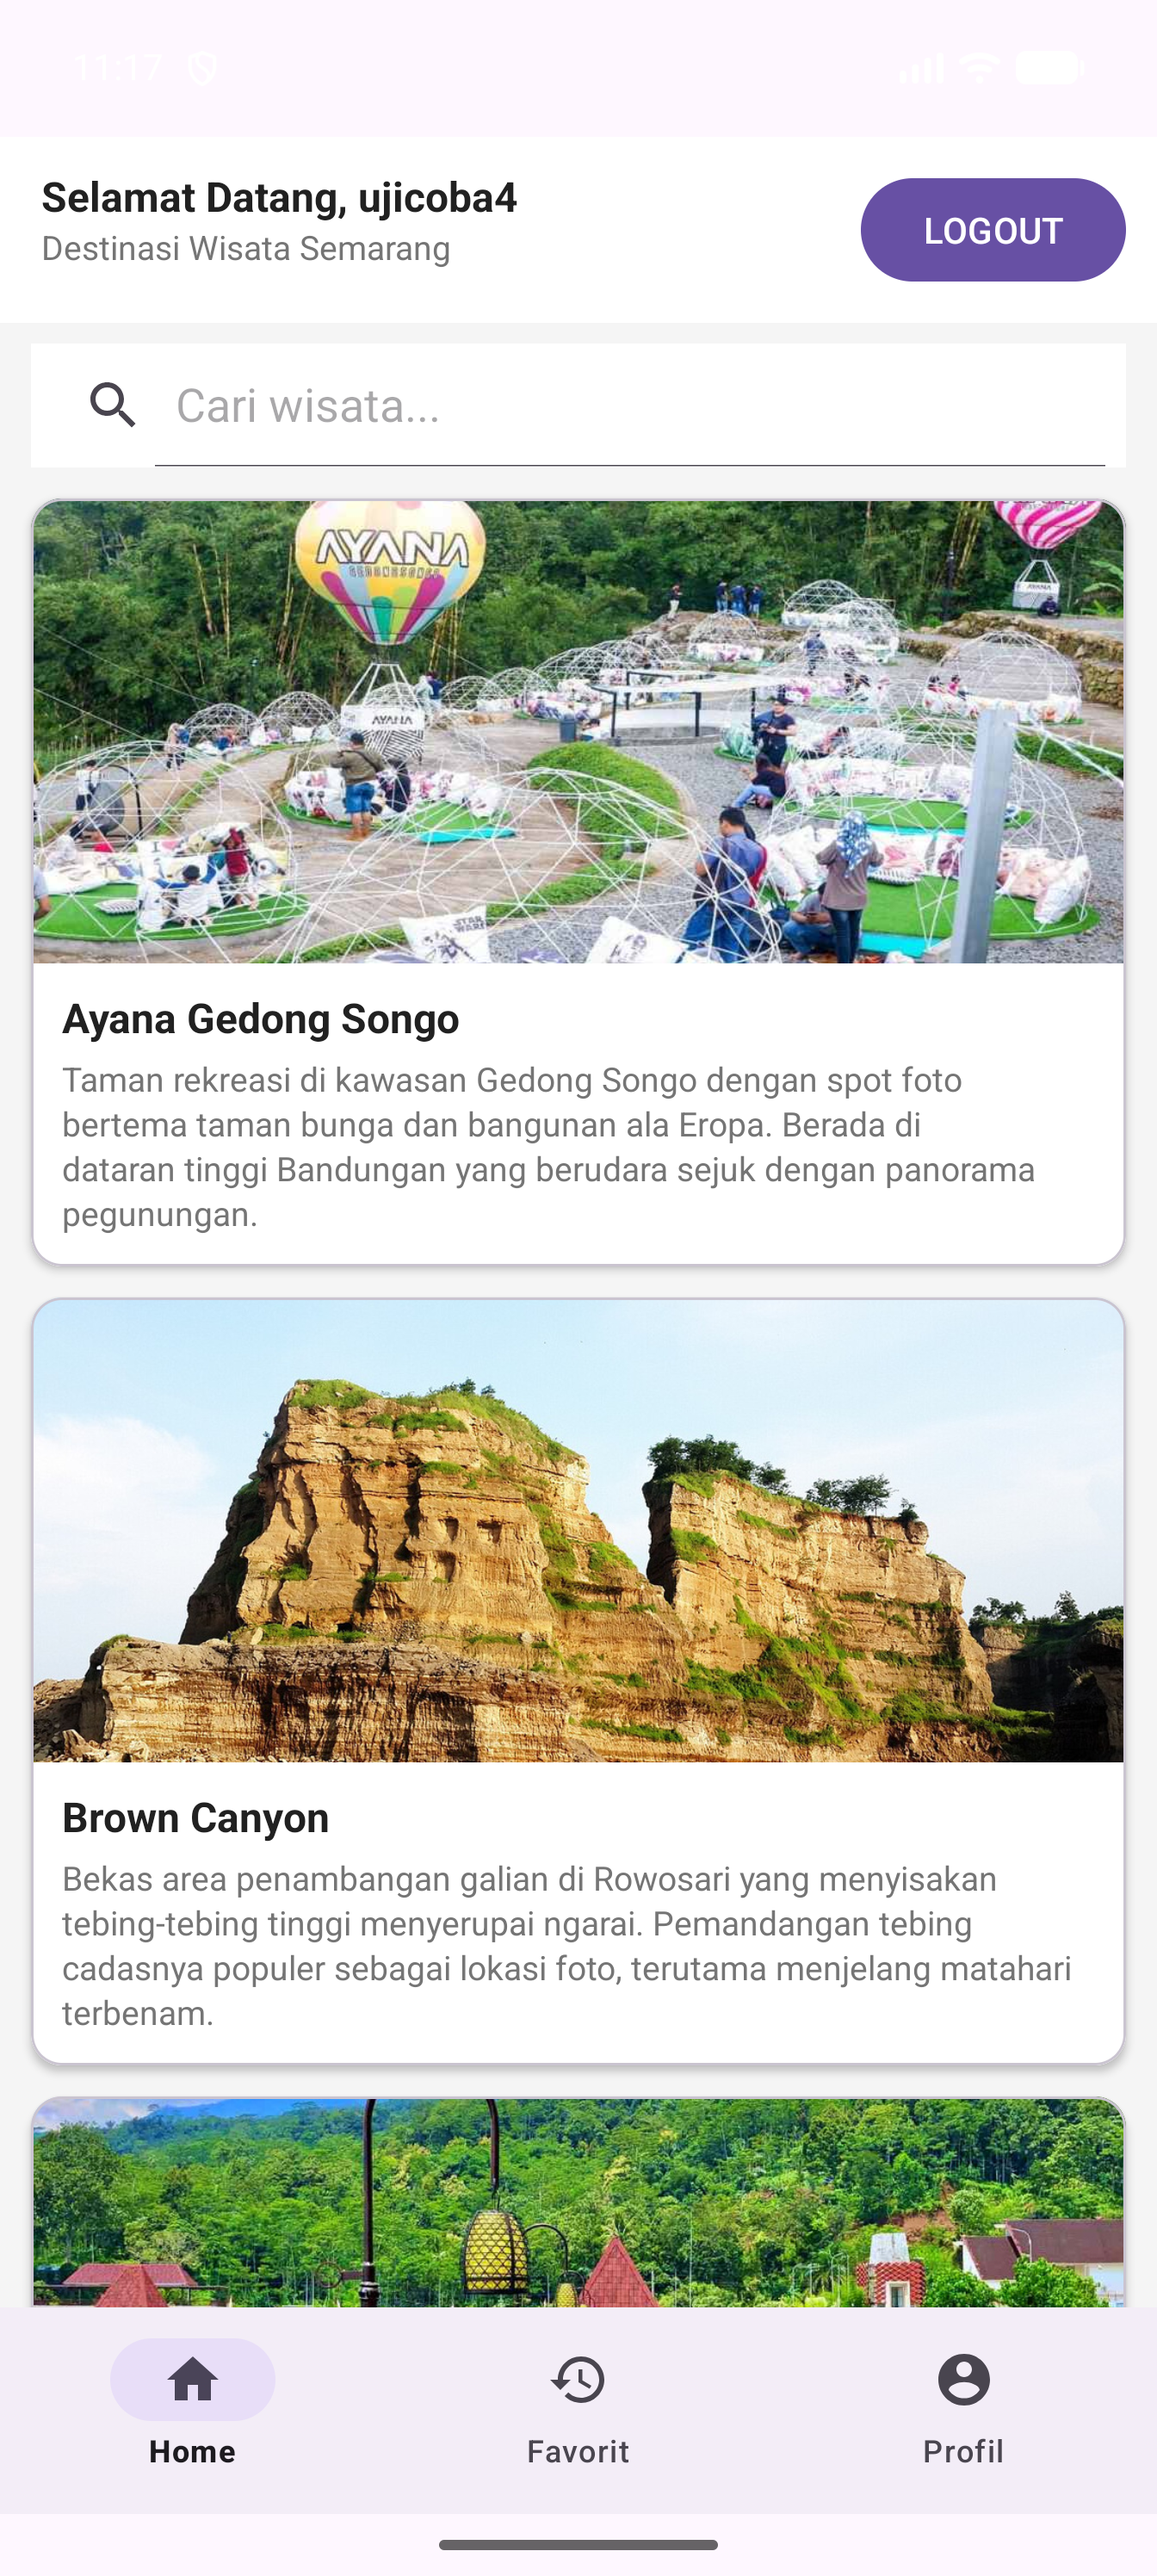
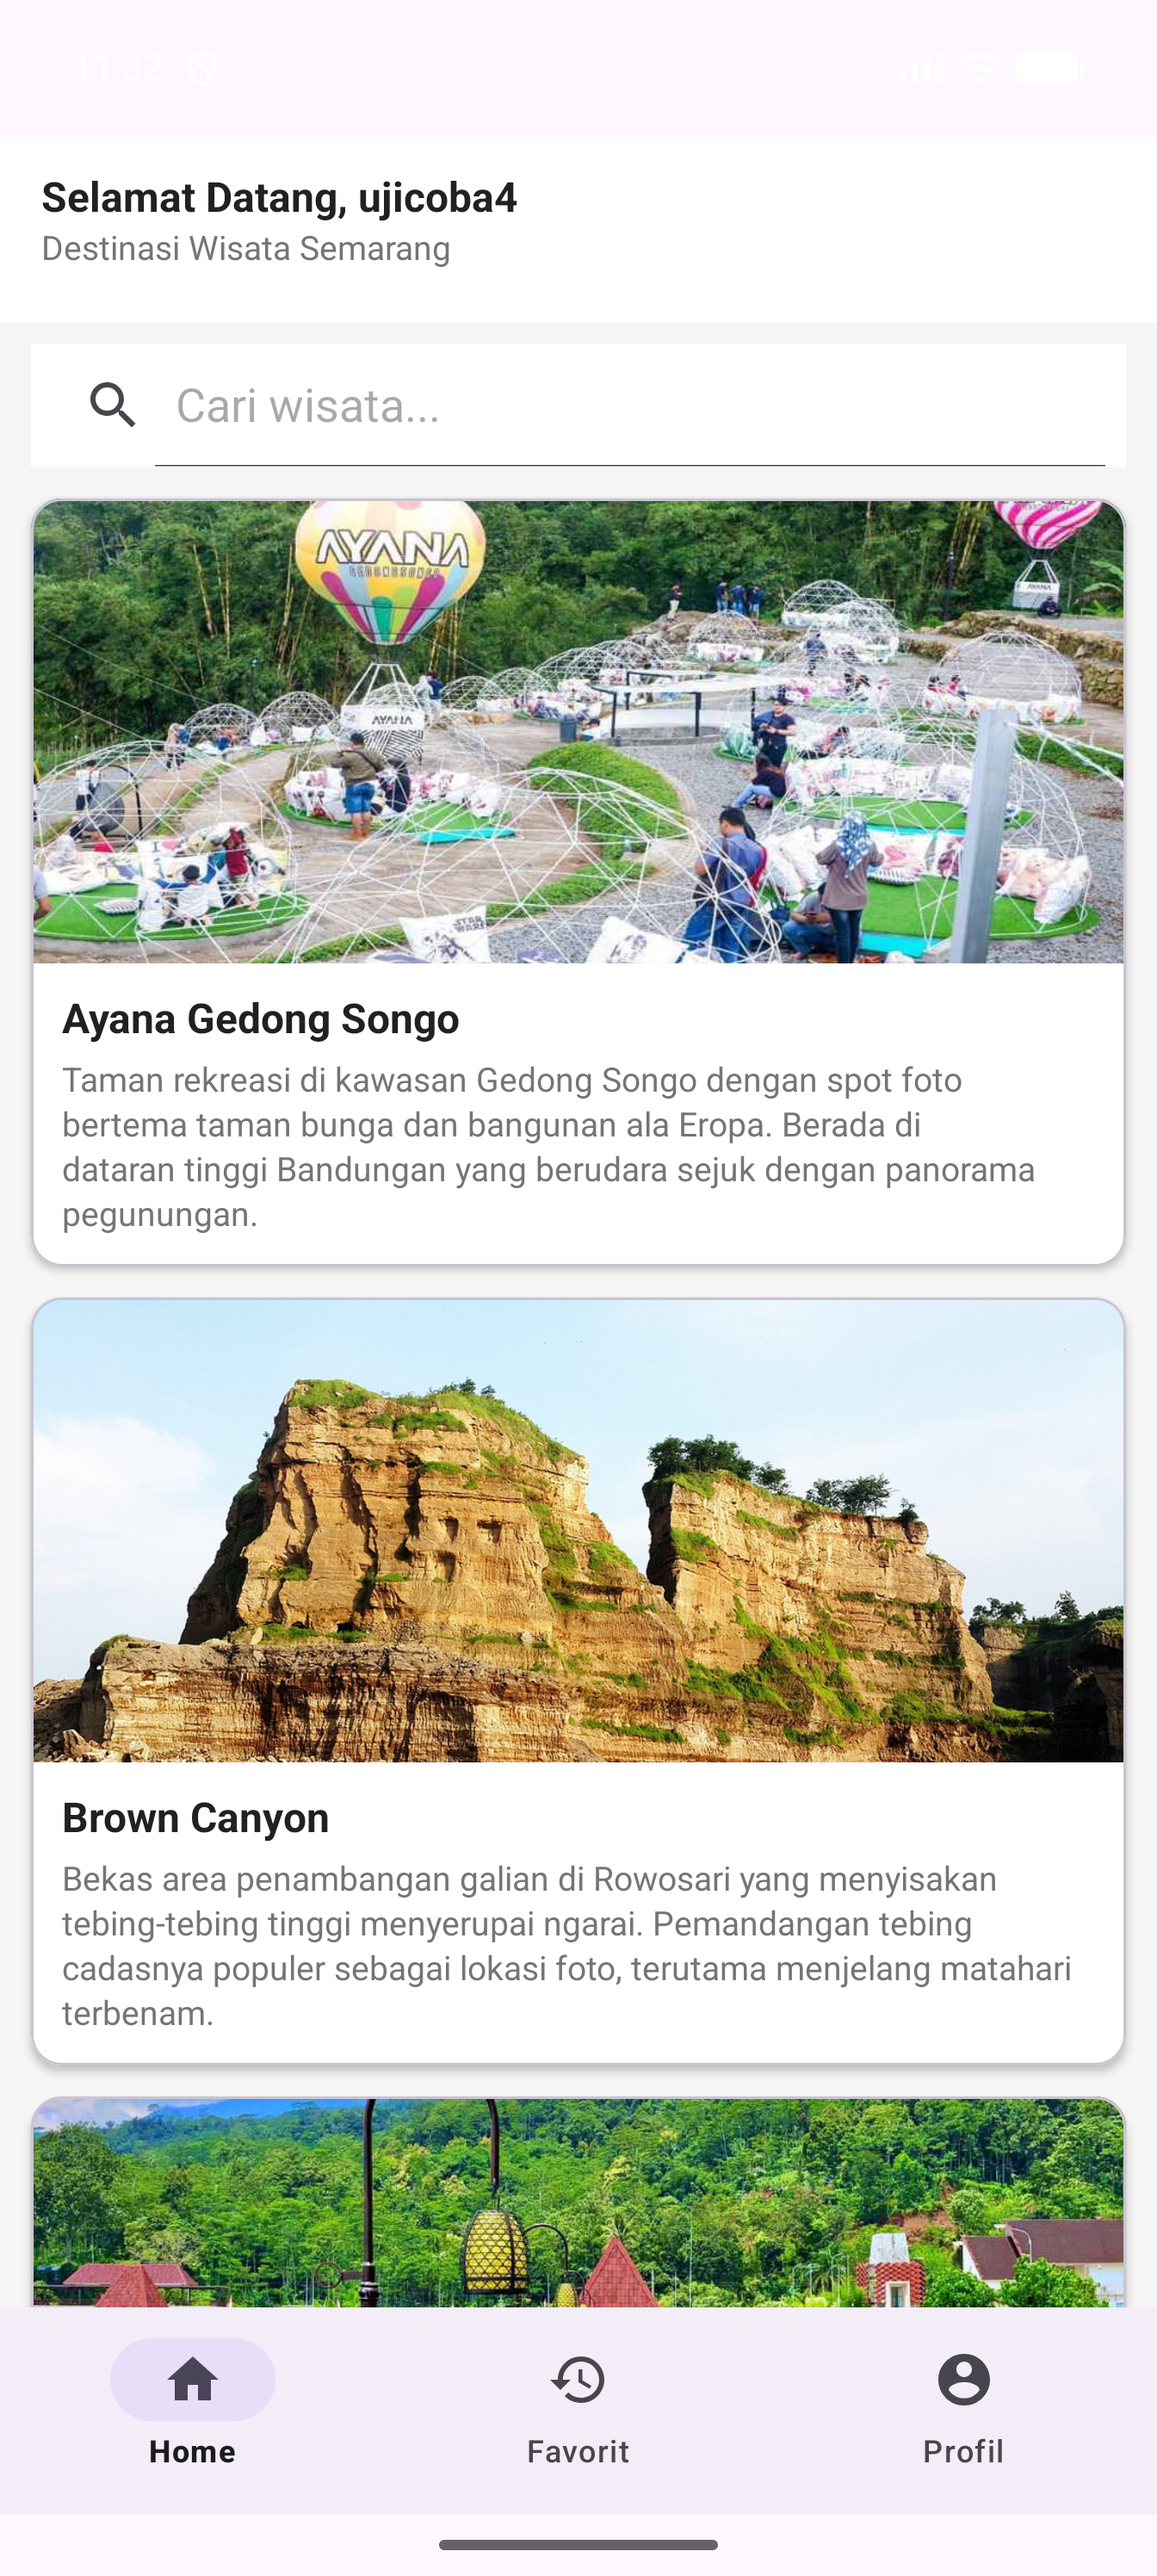
Pindahkan Logout sepenuhnya ke halaman Profil dan tambahkan info pengguna
Merapikan halaman Home dan melengkapi halaman Profil agar fitur Logout
hanya berada di satu tempat sesuai ketentuan tugas.

Halaman Home
- Tombol Logout di bagian atas dihapus
- Sapaan nama pengguna dibuat melebar sampai tepi kanan setelah tombol hilang

Halaman Profil
- Menambahkan ikon profil di atas tombol Logout
- Menambahkan teks nama pengguna yang dibaca dari session
- Ikon, nama, dan tombol Logout disusun rata tengah

Dokumentasi
- README disesuaikan dengan perubahan tampilan Home dan Profil
- Tangkapan layar Home dan Profil diperbarui

Changed region(s): [[0.75, 0.0622, 0.9688, 0.1243]]

diff --git a/app/src/main/java/com/example/tugas2_loginregister/HomeFragment.kt b/app/src/main/java/com/example/tugas2_loginregister/HomeFragment.kt
@@ -7,7 +7,6 @@ import android.os.Looper
 import android.view.LayoutInflater
 import android.view.View
 import android.view.ViewGroup
-import android.widget.Button
 import android.widget.ProgressBar
 import android.widget.SearchView
 import android.widget.TextView
@@ -66,10 +65,6 @@ class HomeFragment : Fragment() {
     private fun siapkanHeader(view: View) {
         val username = Sesi.ambilUsername(requireContext())
         view.findViewById<TextView>(R.id.tvWelcome).text = "Selamat Datang, $username"
-
-        view.findViewById<Button>(R.id.btnLogout).setOnClickListener {
-            Sesi.keluar(requireActivity())
-        }
     }
 
     private fun hubungkanView(view: View) {

diff --git a/app/src/main/java/com/example/tugas2_loginregister/ProfileFragment.kt b/app/src/main/java/com/example/tugas2_loginregister/ProfileFragment.kt
@@ -5,6 +5,7 @@ import android.view.LayoutInflater
 import android.view.View
 import android.view.ViewGroup
 import android.widget.Button
+import android.widget.TextView
 import androidx.fragment.app.Fragment
 
 class ProfileFragment : Fragment() {
@@ -19,6 +20,8 @@ class ProfileFragment : Fragment() {
 
     override fun onViewCreated(view: View, savedInstanceState: Bundle?) {
         super.onViewCreated(view, savedInstanceState)
+
+        view.findViewById<TextView>(R.id.tvNama).text = Sesi.ambilUsername(requireContext())
 
         view.findViewById<Button>(R.id.btnLogout).setOnClickListener {
             Sesi.keluar(requireActivity())

diff --git a/README.md b/README.md
@@ -38,7 +38,7 @@ Dalam implementasinya, kode dibuat sederhana, rapi, dan terstruktur agar lebih m
 | 2 | Bottom Navigation dipakai berpindah antar halaman lewat menu di bagian bawah | Tiga menu: Home, Favorit, dan Profil |
 | 3 | Membuat Fragment Home untuk menampilkan halaman utama aplikasi | `HomeFragment` + `fragment_home.xml`, berisi daftar wisata, pencarian, dan pagination |
 | 4 | Membuat Fragment riwayat untuk halaman kedua | `FavoriteFragment` + `fragment_favorite.xml`, menampilkan teks `Ini Halaman Favorit` |
-| 5 | Membuat Fragment Profil untuk informasi pengguna dan fitur Logout | `ProfileFragment` + `fragment_profile.xml`, berisi tombol Logout |
+| 5 | Membuat Fragment Profil untuk informasi pengguna dan fitur Logout | `ProfileFragment` + `fragment_profile.xml`, berisi ikon profil, nama pengguna, dan tombol Logout |
 | 6 | Memilih menu menampilkan Fragment yang sesuai tanpa membuka Activity baru | `supportFragmentManager.beginTransaction().replace(...)` di dalam `MainActivity` |
 | 7 | Menambahkan Splash Screen saat aplikasi pertama kali dibuka | `SplashActivity` + `activity_splash.xml`, tampil selama 2 detik |
 | 8 | Splash Screen melakukan pengecekan status login | `Sesi.sudahLogin()` dipanggil sebelum berpindah halaman |
@@ -113,7 +113,7 @@ Dengan implementasi fitur tersebut, TravelDestinationApp memiliki navigasi yang 
 | `HomeFragment.kt` | Halaman utama berisi daftar wisata, pencarian, dan pagination |
 | `FavoriteFragment.kt` | Halaman kedua |
 | `fragment_favorite.xml` | Tampilan halaman kedua |
-| `ProfileFragment.kt` | Halaman profil berisi tombol Logout |
+| `ProfileFragment.kt` | Halaman profil berisi ikon profil, nama pengguna, dan tombol Logout |
 | `fragment_profile.xml` | Tampilan halaman profil |
 | `menu_bottom.xml` | Menu Bottom Navigation |
 | `ic_home.xml`, `ic_favorit.xml`, `ic_profil.xml` | Ikon menu Bottom Navigation |
@@ -123,7 +123,7 @@ Dengan implementasi fitur tersebut, TravelDestinationApp memiliki navigasi yang 
 | File | Perubahan |
 |---|---|
 | `activity_main.xml` | Diganti isinya menjadi `FragmentContainerView` + `BottomNavigationView` |
-| `fragment_home.xml` | Nama file sebelumnya `activity_main.xml`, isinya tetap sama |
+| `fragment_home.xml` | Nama file sebelumnya `activity_main.xml`. Tombol Logout di bagian atas dihapus karena Logout kini berada di halaman Profil |
 | `MainActivity.kt` | Tidak lagi berisi logika daftar wisata, kini hanya mengatur perpindahan Fragment |
 | `LoginActivity.kt` | Menyimpan session lewat `Sesi.simpan()` ketika login berhasil |
 | `AndroidManifest.xml` | `SplashActivity` menjadi halaman yang dibuka pertama kali |
@@ -189,18 +189,19 @@ private fun bukaHalaman(fragment: Fragment) {
 | Splash Screen | Home Fragment |
 |:---:|:---:|
 | <img src="screenshot/19-splash-screen.png" width="230"> | <img src="screenshot/20-home-fragment.png" width="230"> |
-| Tampil saat aplikasi dibuka sambil mengecek status login | Halaman utama berisi daftar wisata, muncul saat session masih tersedia |
+| Tampil saat aplikasi dibuka sambil mengecek status login | Halaman utama berisi daftar wisata, sapaan namanya diambil dari session |
 
 | Favorit Fragment | Profil Fragment | Setelah Logout |
 |:---:|:---:|:---:|
 | <img src="screenshot/21-favorit-fragment.png" width="230"> | <img src="screenshot/22-profil-fragment.png" width="230"> | <img src="screenshot/23-logout-ke-login.png" width="230"> |
-| Halaman kedua yang dibuka lewat Bottom Navigation | Halaman profil berisi tombol Logout | Session dihapus dan aplikasi kembali ke halaman Login |
+| Halaman kedua yang dibuka lewat Bottom Navigation | Ikon profil, nama pengguna, dan tombol Logout | Session dihapus dan aplikasi kembali ke halaman Login |
 
 ## Catatan
 
 - Session disimpan di `SharedPreferences` dengan nama `sesi_login`, terpisah dari `pengaturan_server` yang dipakai menyimpan alamat server.
 - Username tidak lagi dikirim antar halaman memakai `Intent.putExtra`. Halaman Home mengambilnya langsung dari session lewat `Sesi.ambilUsername()`.
-- Tombol Logout di bagian atas halaman Home tetap ada seperti sebelumnya, dan kini memanggil `Sesi.keluar()` yang sama dengan tombol Logout di halaman Profil.
+- Tombol Logout di bagian atas halaman Home dihapus supaya tidak ada dua tombol dengan fungsi yang sama. Logout hanya tersedia di halaman Profil sesuai ketentuan tugas.
+- Nama pengguna pada halaman Profil dan sapaan pada halaman Home sama-sama dibaca dari session lewat `Sesi.ambilUsername()`.
 - Pada Android 12 ke atas, sistem menampilkan splash bawaan berisi ikon aplikasi sesaat sebelum `SplashActivity` muncul. Hal tersebut merupakan bawaan sistem, bukan bagian dari layout `activity_splash.xml`.
 
 ---
